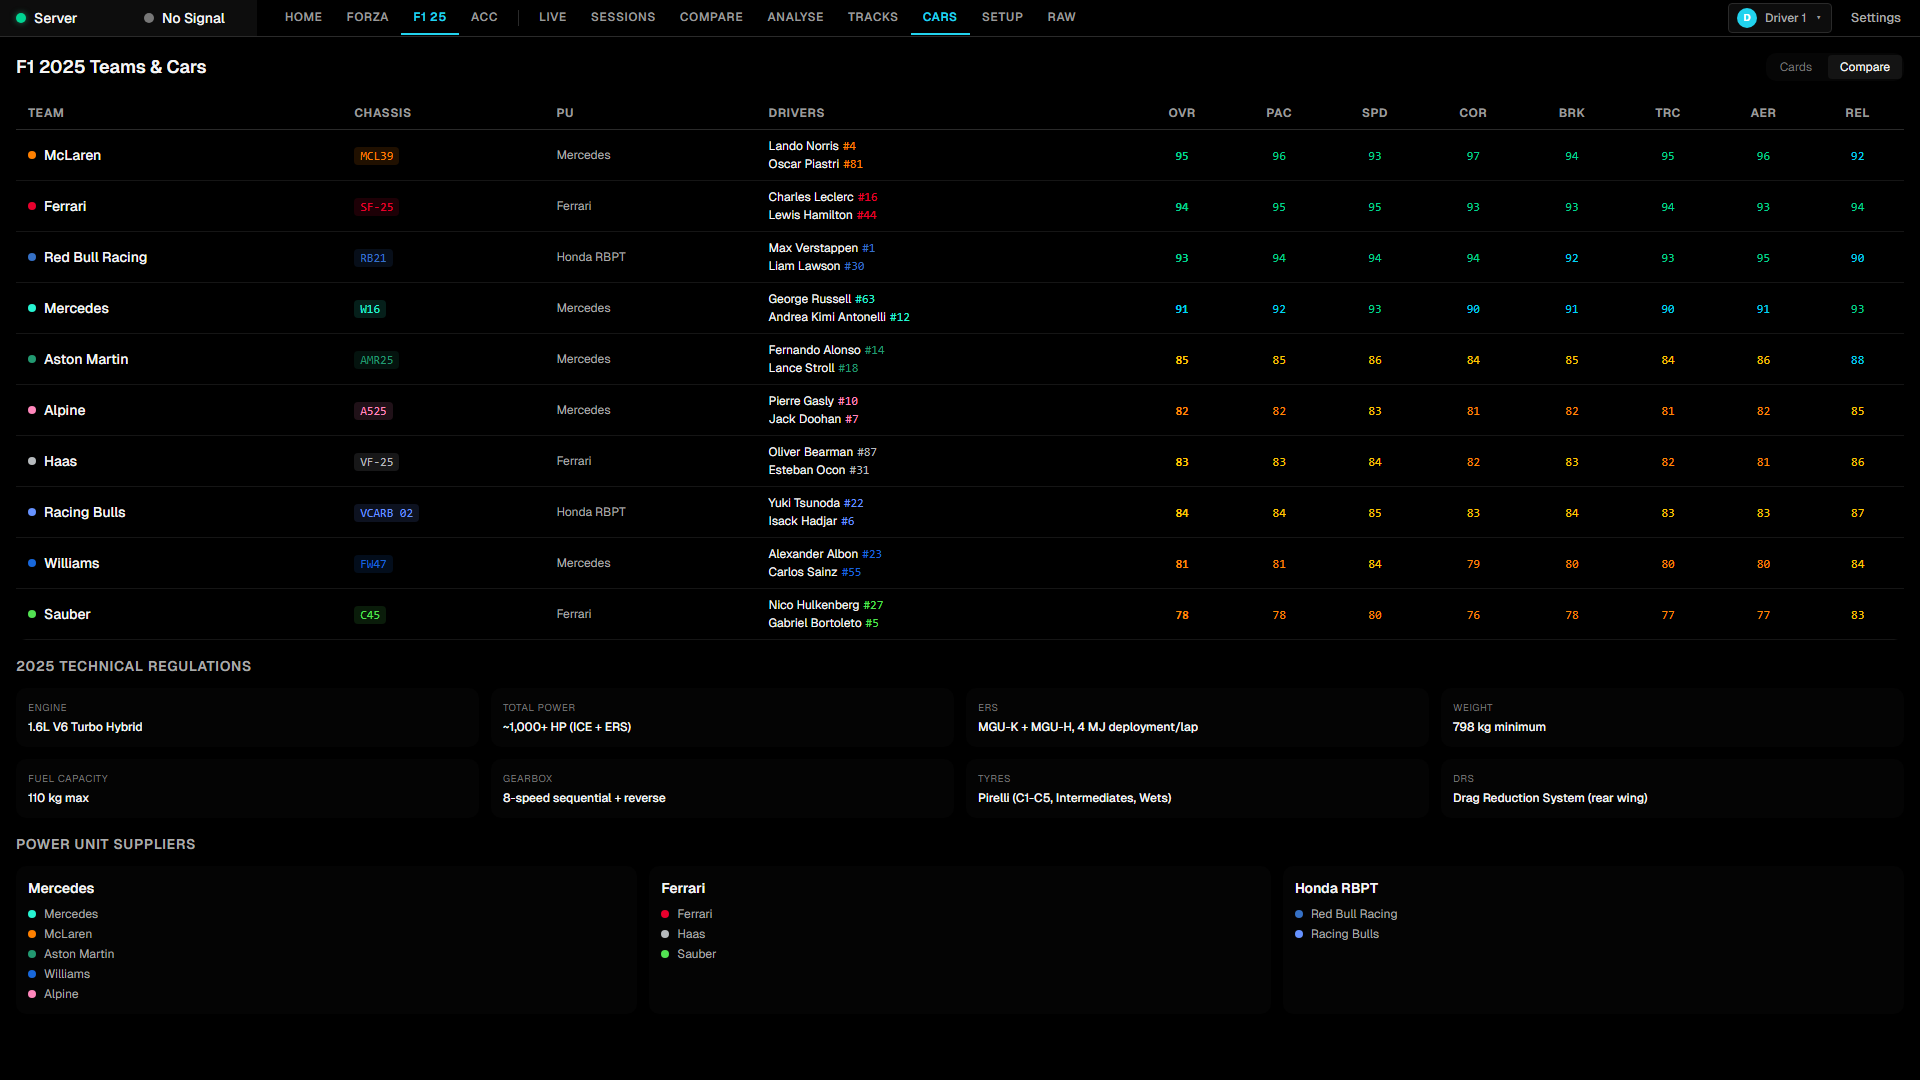
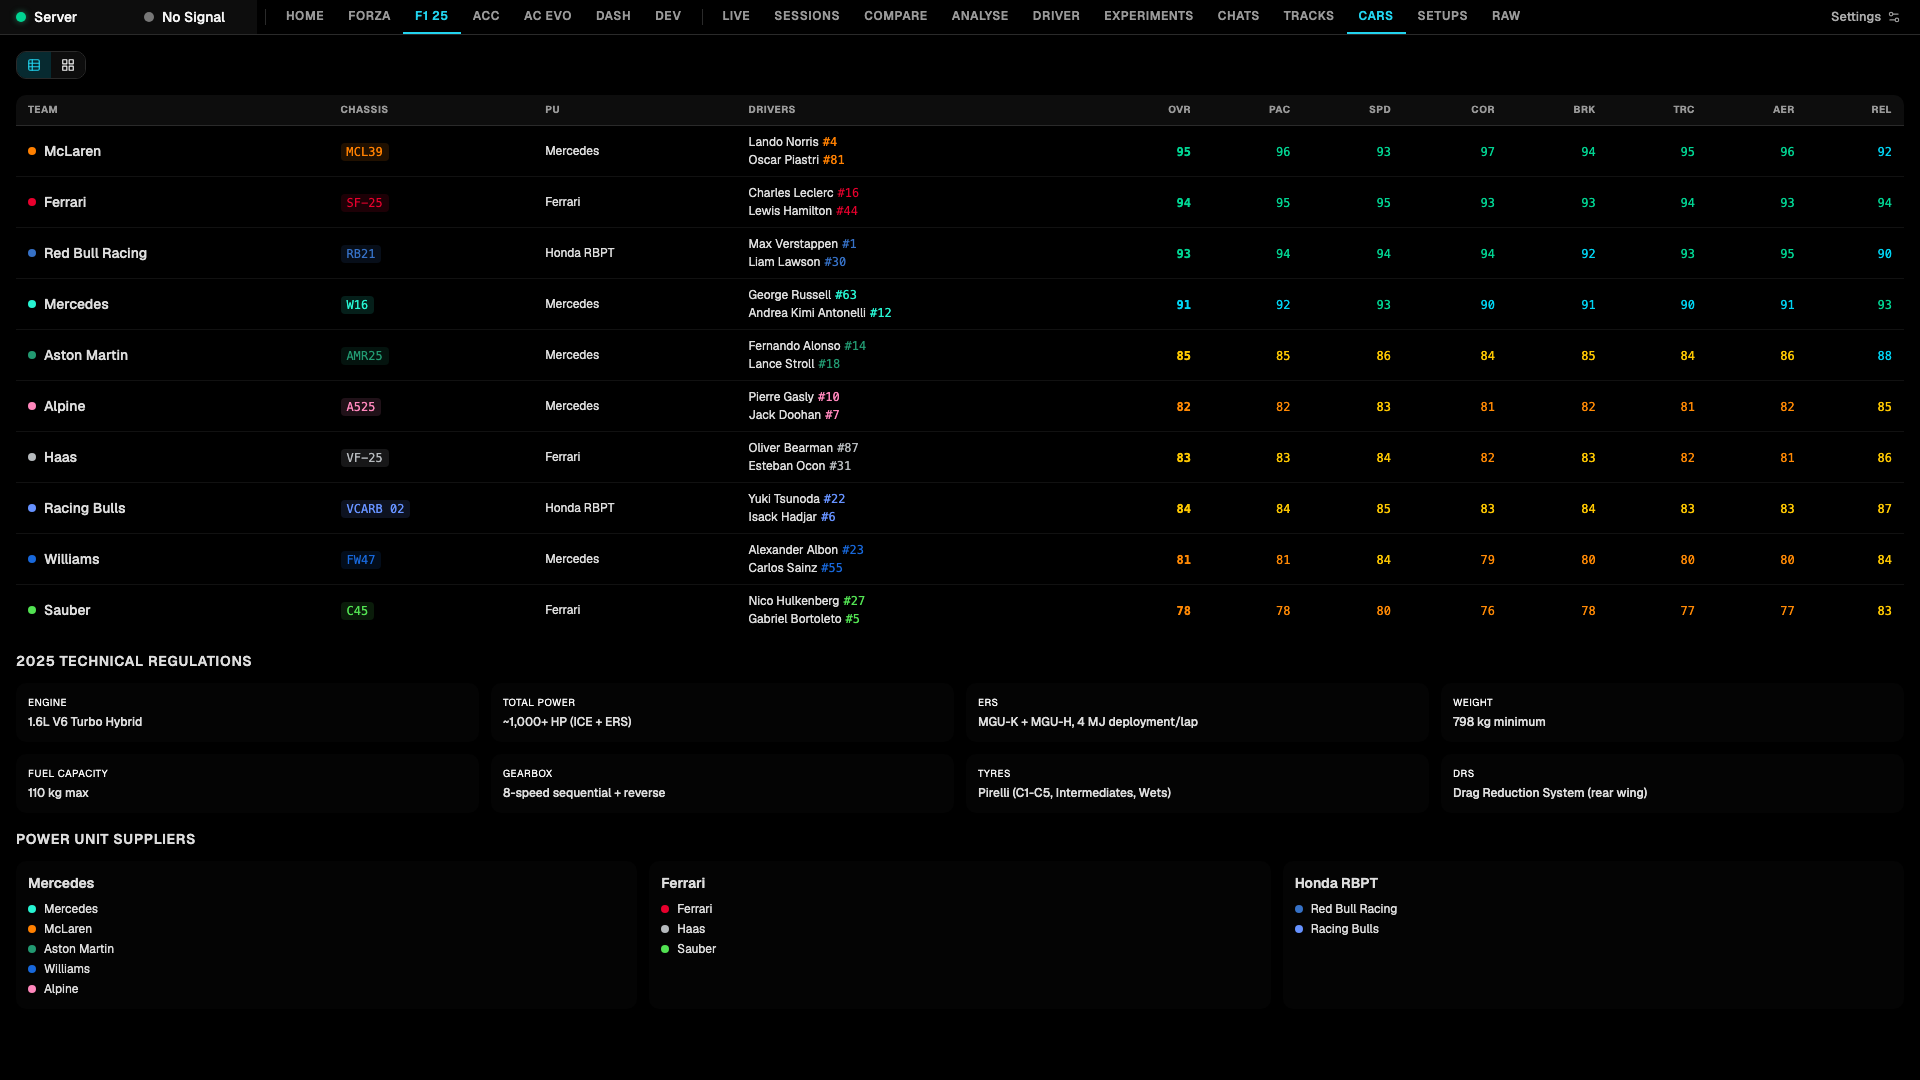
chore(screenshots): regenerate marketing screenshots
Refresh assets/screenshots against current UI. Fix three stale specs that
had been silently pointing at pages that no longer exist:

- lap-analytics/compare pinned lap ids that are gone from the seed data
- setups/setups-ranges used the old ?track=&tab= query form; the track
  detail route is now /tracks/<ordinal>/<tab>, so both shots were the
  bare track list (byte-identical to each other)
- the f125 catalogue shot clicked a "Compare" button that no longer
  exists; the table/grid toggle is title-based

MARKETING_BASE_URL lets the marketing project point at a locally built
server instead of raceiq.localhost.

diff --git a/playwright/marketing.spec.ts b/playwright/marketing.spec.ts
@@ -6,13 +6,13 @@ const SCREENSHOT_DIR = "../assets/screenshots";
 
 const PAGES = [
   { name: "home", path: "/" },
-  { name: "lap-analytics", path: "/f125/analyse?track=6&car=41&lap=257&cursor=12000&viz=3d" },
-  { name: "compare", path: "/f125/compare?track=6&carA=41&lapA=258&carB=41&lapB=260", hover: ".u-over" },
+  { name: "lap-analytics", path: "/f125/analyse?track=32&car=41&lap=72&cursor=12000&viz=3d" },
+  { name: "compare", path: "/f125/compare?track=32&carA=41&lapA=72&carB=41&lapB=76", hover: ".u-over" },
   { name: "tracks", path: "/f125/tracks" },
   { name: "car-catalogue-f125-grid", path: "/f125/cars" },
   { name: "car-catalogue-forza", path: "/fm23/cars" },
-  { name: "setups", path: "/f125/tracks?track=3&tab=setups" },
-  { name: "setups-ranges", path: "/f125/tracks?track=3&tab=setups&subtab=ranges" },
+  { name: "setups", path: "/f125/tracks/32/setups" },
+  { name: "setups-ranges", path: "/f125/tracks/32/setups?subtab=ranges" },
   { name: "car-compare-forza", path: "/fm23/cars?compare=1023,1020,3062" },
 ];
 
@@ -44,8 +44,8 @@ test("screenshot: car-catalogue-f125-table", async ({ page: p }) => {
     localStorage.setItem("forza-onboarding-complete", "true"),
   );
   await p.goto("/f125/cars", { waitUntil: "networkidle" });
-  await p.getByRole("button", { name: "Compare" }).waitFor({ state: "visible" });
-  await p.getByRole("button", { name: "Compare" }).click();
+  await p.getByTitle("Table view").waitFor({ state: "visible" });
+  await p.getByTitle("Table view").click();
   await p.waitForTimeout(1500);
   await p.screenshot({
     path: `${SCREENSHOT_DIR}/car-catalogue-f125-table.png`,

diff --git a/playwright/playwright.config.ts b/playwright/playwright.config.ts
@@ -54,7 +54,7 @@ export default defineConfig({
       name: "marketing",
       testMatch: "marketing.spec.ts",
       use: {
-        baseURL: "https://raceiq.localhost",
+        baseURL: process.env.MARKETING_BASE_URL ?? "https://raceiq.localhost",
         viewport: { width: 1920, height: 1080 },
       },
     },

diff --git a/assets/screenshots/README.md b/assets/screenshots/README.md
@@ -1,75 +1,73 @@
 # Screenshots
 
-## Home & Dashboards
+### AccLiveDashboard
 
-### Home
+![AccLiveDashboard](AccLiveDashboard.png)
 
-![home](home.png)
+### ComboDash1
 
-### Combo Dashboard
+![ComboDash1](ComboDash1.png)
 
-![Combo Dashboard 1](ComboDash1.png)
+### ComboDash2
 
-![Combo Dashboard 2](ComboDash2.png)
+![ComboDash2](ComboDash2.png)
 
-<!-- dashboard-screenshots-start -->
-### F1 2025 Live Dashboard
+### F1LiveDashboard
 
-![F1 2025 Live Dashboard](F1LiveDashboard.png)
+![F1LiveDashboard](F1LiveDashboard.png)
 
-### Forza Motorsport Live Dashboard
+### ForzaLiveDashboard
 
-![Forza Motorsport Live Dashboard](ForzaLiveDashboard.png)
+![ForzaLiveDashboard](ForzaLiveDashboard.png)
 
-### Assetto Corsa Competizione Live Dashboard
+### SetupBrowser
 
-![Assetto Corsa Competizione Live Dashboard](AccLiveDashboard.png)
-<!-- dashboard-screenshots-end -->
+![SetupBrowser](SetupBrowser.png)
 
-## Lap Analysis
+### SetupBrowserReadOnly
 
-### Lap Analytics
+![SetupBrowserReadOnly](SetupBrowserReadOnly.png)
 
-![lap analytics](lap-analytics.png)
-
-### Compare
-
-![compare](compare.png)
-
-## Cars
-
-### Car Catalogue — Forza
-
-![car catalogue forza](car-catalogue-forza.png)
-
-### Car Catalogue — Forza (grid)
-
-![car catalogue forza grid](car-catalogue-forza-grid.png)
-
-### Car Catalogue — F1 2025 (table)
-
-![car catalogue f125 table](car-catalogue-f125-table.png)
-
-### Car Catalogue — F1 2025 (grid)
+### car catalogue f125 grid
 
 ![car catalogue f125 grid](car-catalogue-f125-grid.png)
 
-### Car Compare — Forza
+### car catalogue f125 table
+
+![car catalogue f125 table](car-catalogue-f125-table.png)
+
+### car catalogue forza grid
+
+![car catalogue forza grid](car-catalogue-forza-grid.png)
+
+### car catalogue forza
+
+![car catalogue forza](car-catalogue-forza.png)
+
+### car compare forza
 
 ![car compare forza](car-compare-forza.png)
 
-## Setups
+### compare
 
-### Setups
+![compare](compare.png)
 
-![setups](setups.png)
+### home
 
-### Setups — Ranges
+![home](home.png)
+
+### lap analytics
+
+![lap analytics](lap-analytics.png)
+
+### setups ranges
 
 ![setups ranges](setups-ranges.png)
 
-## Tracks
+### setups
 
-### Tracks
+![setups](setups.png)
+
+### tracks
 
 ![tracks](tracks.png)
